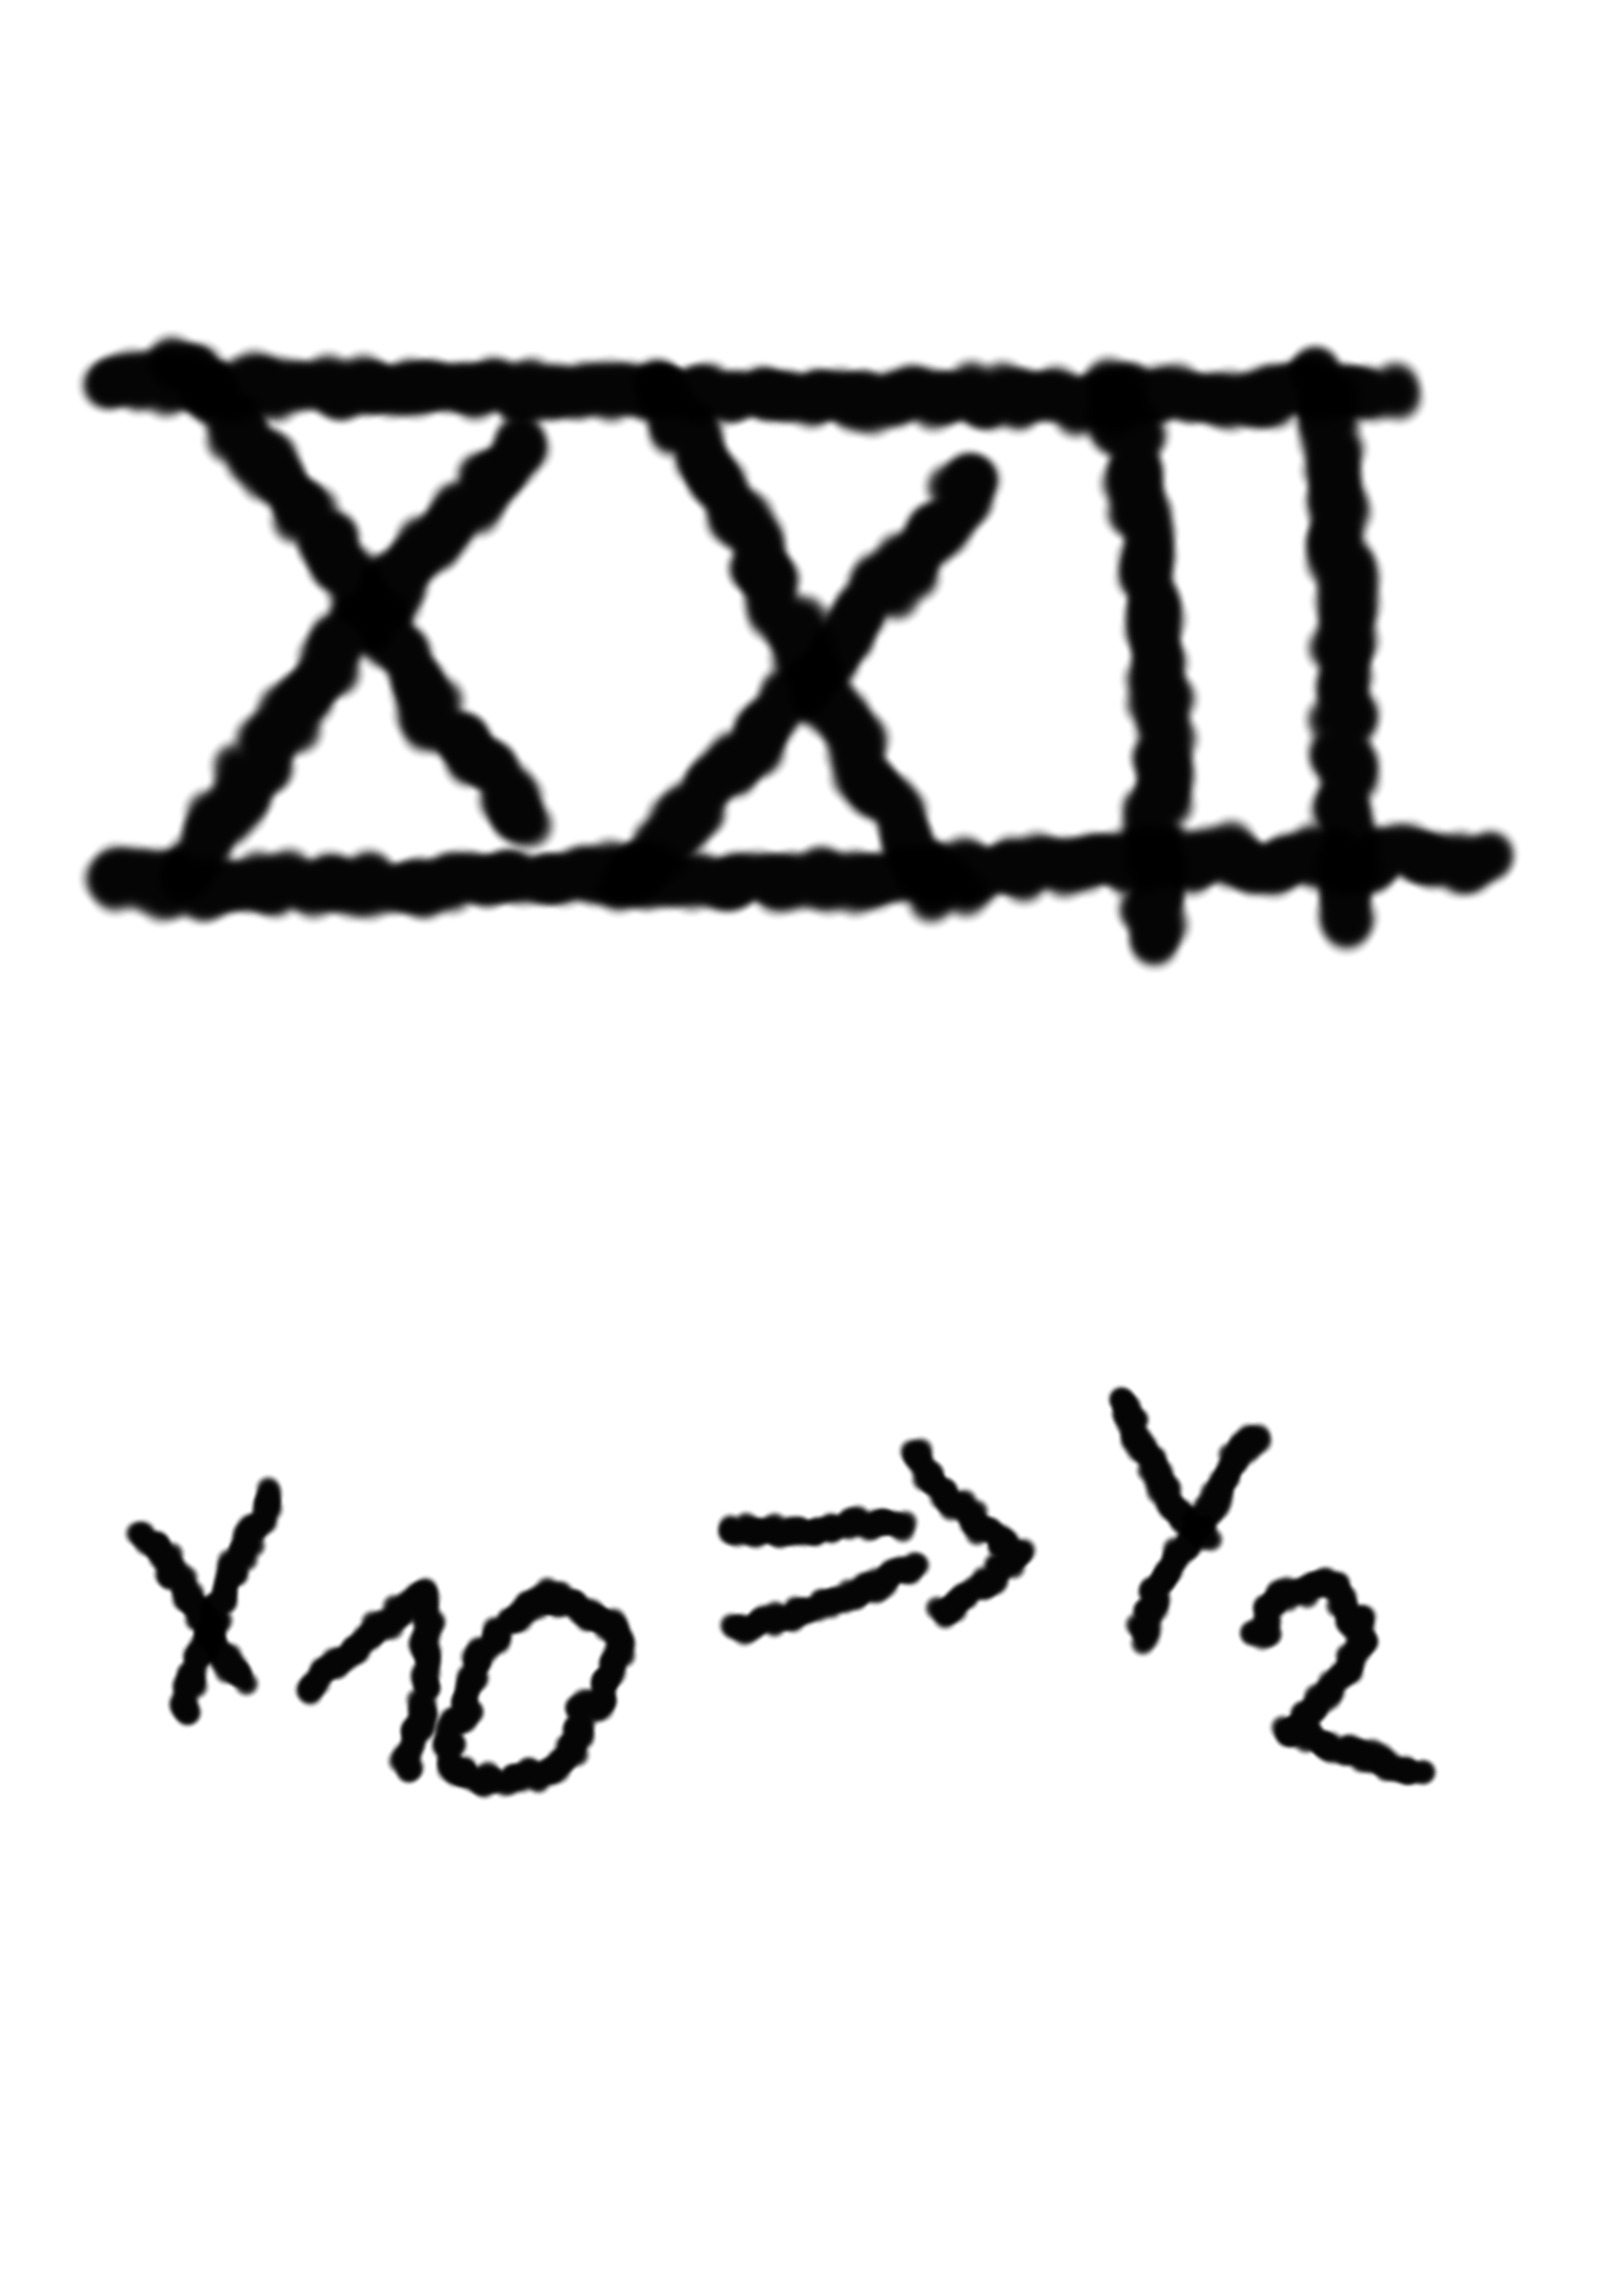
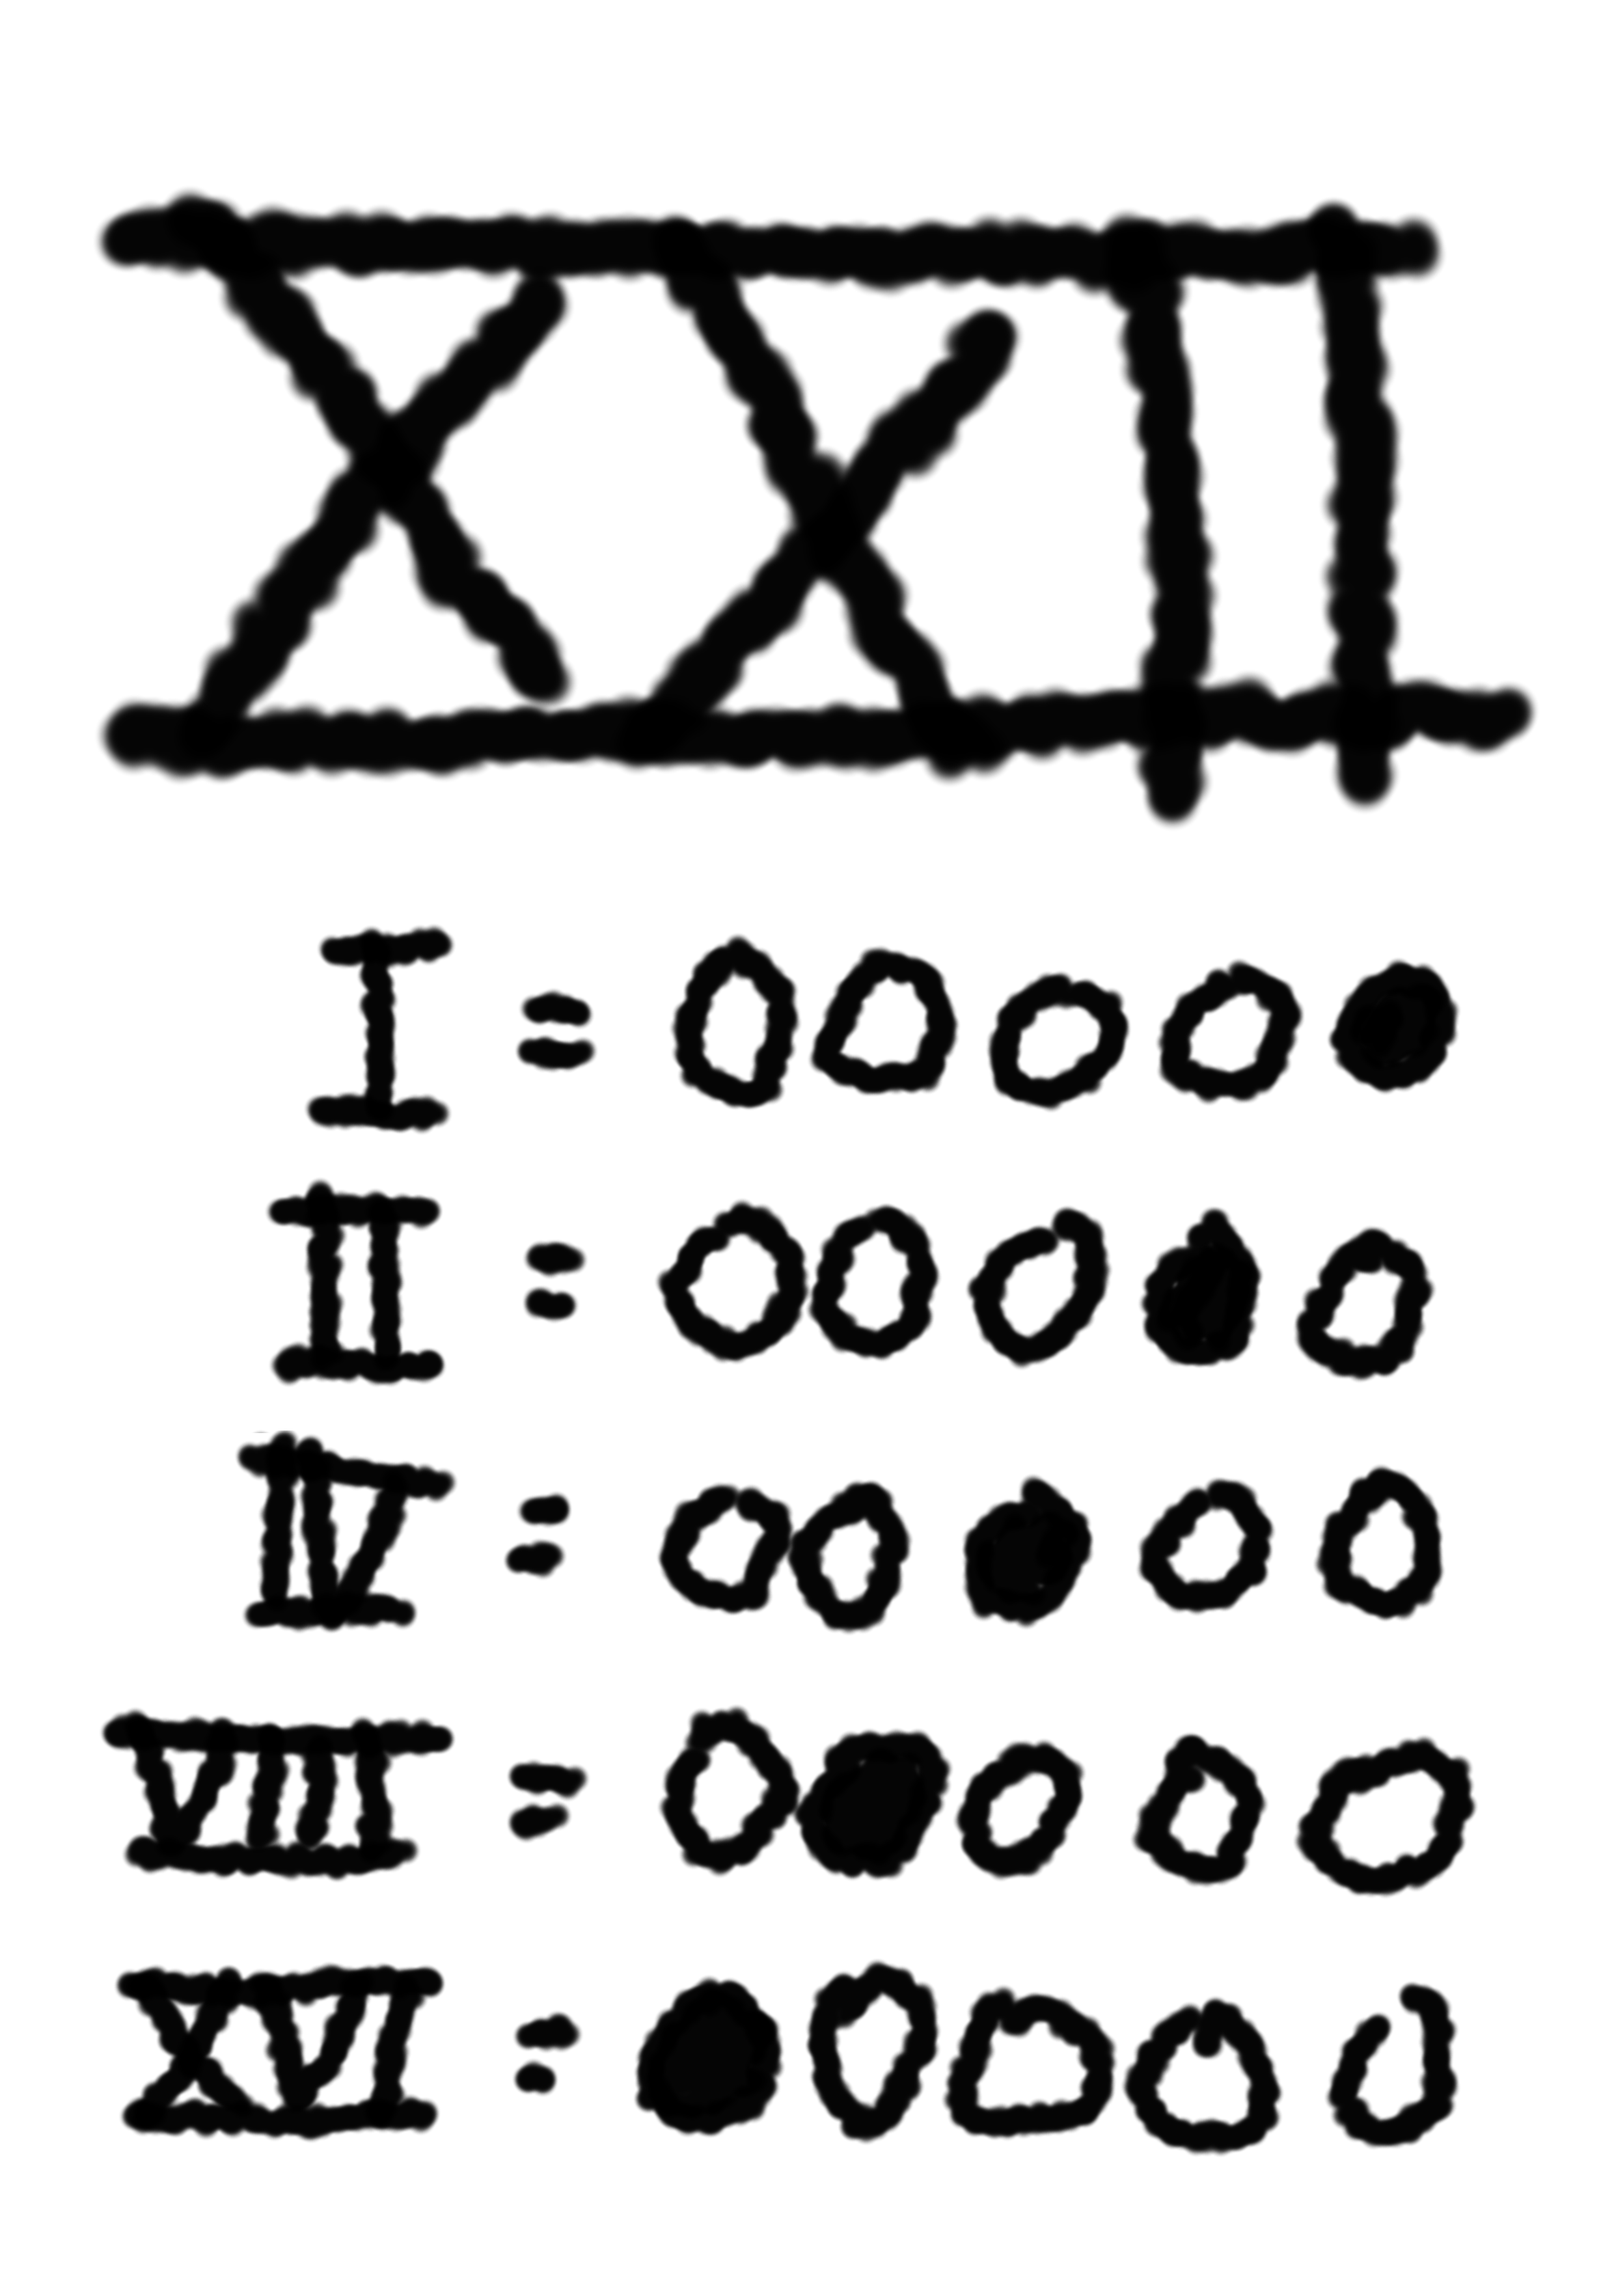
Fixed pipe collider, updated second book page

diff --git a/BetweenTime/Assets/BetweenTime/_Scripts/steampunk/MazeBuilder.cs b/BetweenTime/Assets/BetweenTime/_Scripts/steampunk/MazeBuilder.cs
@@ -5,32 +5,28 @@ namespace BetweenTime._Scripts.steampunk
 {
     public class MazeBuilder : MonoBehaviour
     {
+        [SerializeField] private GameObject pipeCurved;
 
-        [SerializeField]
-        private GameObject pipeCurved;
+        [SerializeField] private GameObject pipeStraight;
 
-        [SerializeField]
-        private GameObject pipeStraight;
+        [SerializeField] private GameObject pipeStraightEnd;
 
-        [SerializeField]
-        private GameObject pipeStraightEnd;
+        [SerializeField] private GameObject pipeXJunction;
 
-        [SerializeField]
-        private GameObject pipeXJunction;
+        [SerializeField] private GameObject pipeTJunction;
 
-        [SerializeField]
-        private GameObject pipeTJunction;
-
-        private readonly char[,] _labyrinth = {
-            {'3', 'b', '9', '1', '5', '5', '5', '3'},
-            {'a', 'c', '2', 'c', '5', '3', '9', '6'},
-            {'c', '3', 'c', '3', '9', '6', 'a', 'b'},
-            {'b', 'a', 'd', '6', 'c', '3', 'a', 'a'},
-            {'a', 'c', '3', '9', '3', 'a', 'c', '2'},
-            {'8', '5', '6', 'a', 'c', '6', 'd', '2'},
-            {'c', '3', 'd', '4', '5', '5', '3', 'a'},
-            {'d', '4', '5', '5', '5', '5', '6', 'c'}
+        private readonly char[,] _labyrinth =
+        {
+            { '3', 'b', '9', '1', '5', '5', '5', '3' },
+            { 'a', 'c', '2', 'c', '5', '3', '9', '6' },
+            { 'c', '3', 'c', '3', '9', '6', 'a', 'b' },
+            { 'b', 'a', 'd', '6', 'c', '3', 'a', 'a' },
+            { 'a', 'c', '3', '9', '3', 'a', 'c', '2' },
+            { '8', '5', '6', 'a', 'c', '6', 'd', '2' },
+            { 'c', '3', 'd', '4', '5', '5', '3', 'a' },
+            { 'd', '4', '5', '5', '5', '5', '6', 'c' }
         };
+
         private const int LabySize = 8;
 
         private const float CellToCelldistance = 0.3738f;
@@ -46,38 +42,44 @@ namespace BetweenTime._Scripts.steampunk
             var pos = gameObject.transform.position;
             var startZ = pos.z;
 
-            for(var i = 0; i<LabySize; i++)
+            for (var i = 0; i < LabySize; i++)
             {
-                for (var j = 0; j<LabySize; j++)
+                for (var j = 0; j < LabySize; j++)
                 {
-                    var pipeType = _labyrinth[i,j];
+                    var pipeType = _labyrinth[i, j];
                     GameObject pipe = null;
 
                     switch (pipeType)
                     {
                         case '1':
                             pipe = PipeType1();
-                            Instantiate(pipe, new Vector3(pos.x, pos.y, pos.z), pipe.transform.rotation, gameObject.transform);
+                            pipe = Instantiate(pipe, new Vector3(pos.x, pos.y, pos.z), pipe.transform.rotation,
+                                gameObject.transform);
                             break;
                         case '2':
                             pipe = PipeType2();
-                            Instantiate(pipe, new Vector3(pos.x, pos.y, pos.z), pipe.transform.rotation, gameObject.transform);
+                            pipe = Instantiate(pipe, new Vector3(pos.x, pos.y, pos.z), pipe.transform.rotation,
+                                gameObject.transform);
                             break;
                         case '3':
                             pipe = PipeType3();
-                            Instantiate(pipe, new Vector3(pos.x, pos.y, pos.z), pipe.transform.rotation, gameObject.transform);
+                            pipe = Instantiate(pipe, new Vector3(pos.x, pos.y, pos.z), pipe.transform.rotation,
+                                gameObject.transform);
                             break;
                         case '4':
                             pipe = PipeType4();
-                            Instantiate(pipe, new Vector3(pos.x, pos.y, pos.z), pipe.transform.rotation, gameObject.transform);
+                            pipe = Instantiate(pipe, new Vector3(pos.x, pos.y, pos.z), pipe.transform.rotation,
+                                gameObject.transform);
                             break;
                         case '5':
                             pipe = PipeType5();
-                            Instantiate(pipe, new Vector3(pos.x, pos.y, pos.z), pipe.transform.rotation, gameObject.transform);
+                            pipe = Instantiate(pipe, new Vector3(pos.x, pos.y, pos.z), pipe.transform.rotation,
+                                gameObject.transform);
                             break;
                         case '6':
                             pipe = PipeType6();
-                            Instantiate(pipe, new Vector3(pos.x, pos.y, pos.z), pipe.transform.rotation, gameObject.transform);
+                            pipe = Instantiate(pipe, new Vector3(pos.x, pos.y, pos.z), pipe.transform.rotation,
+                                gameObject.transform);
                             break;
                         /*
                     case '7':
@@ -87,33 +89,40 @@ namespace BetweenTime._Scripts.steampunk
                     */
                         case '8':
                             pipe = PipeType8();
-                            Instantiate(pipe, new Vector3(pos.x, pos.y, pos.z), pipe.transform.rotation, gameObject.transform);
+                            pipe = Instantiate(pipe, new Vector3(pos.x, pos.y, pos.z), pipe.transform.rotation,
+                                gameObject.transform);
                             break;
                         case '9':
                             pipe = PipeType9();
-                            Instantiate(pipe, new Vector3(pos.x, pos.y, pos.z), pipe.transform.rotation, gameObject.transform);
+                            pipe = Instantiate(pipe, new Vector3(pos.x, pos.y, pos.z), pipe.transform.rotation,
+                                gameObject.transform);
                             break;
                         case 'a':
                             pipe = PipeTypeA();
-                            Instantiate(pipe, new Vector3(pos.x, pos.y, pos.z), pipe.transform.rotation, gameObject.transform);
+                            pipe = Instantiate(pipe, new Vector3(pos.x, pos.y, pos.z), pipe.transform.rotation,
+                                gameObject.transform);
                             break;
                         case 'b':
                             pipe = PipeTypeB();
-                            Instantiate(pipe, new Vector3(pos.x, pos.y, pos.z), pipe.transform.rotation, gameObject.transform);
+                            pipe = Instantiate(pipe, new Vector3(pos.x, pos.y, pos.z), pipe.transform.rotation,
+                                gameObject.transform);
                             break;
                         case 'c':
                             pipe = PipeTypeC();
-                            Instantiate(pipe, new Vector3(pos.x, pos.y, pos.z), pipe.transform.rotation, gameObject.transform);
+                            pipe = Instantiate(pipe, new Vector3(pos.x, pos.y, pos.z), pipe.transform.rotation,
+                                gameObject.transform);
                             break;
                         case 'd':
                             pipe = PipeTypeD();
-                            Instantiate(pipe, new Vector3(pos.x, pos.y, pos.z), pipe.transform.rotation, gameObject.transform);
+                            pipe = Instantiate(pipe, new Vector3(pos.x, pos.y, pos.z), pipe.transform.rotation,
+                                gameObject.transform);
                             break;
                     }
 
                     pipe?.AddComponent<BoxCollider>();
                     pos = new Vector3(pos.x, pos.y, pos.z + CellToCelldistance);
                 }
+
                 pos = new Vector3(pos.x, pos.y - CellToCelldistance, startZ);
             }
         }
@@ -159,13 +168,13 @@ namespace BetweenTime._Scripts.steampunk
             pipe.transform.rotation = Quaternion.Euler(0, -90, -90);
             return pipe;
         }
-        
-    /*
-        private GameObject PipeType7()
-        {
 
-        }
-    */
+        /*
+            private GameObject PipeType7()
+            {
+
+            }
+        */
 
         private GameObject PipeType8()
         {
